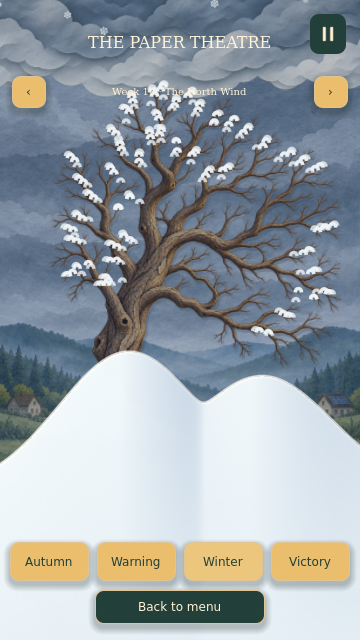
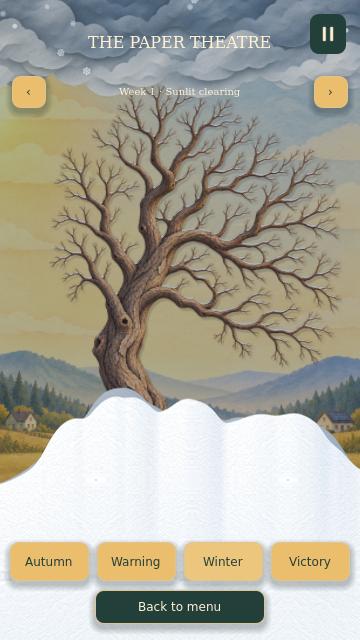
Build gradual paper snowbanks and coat the painted branches

diff --git a/docs/BETA_POLISH.md b/docs/BETA_POLISH.md
@@ -29,7 +29,7 @@ The [compact results](images/beta-results.png) and [Whirlwind workshop](images/b
 
 ## Validation status
 
-Twenty-nine headless regression scripts pass 1,021 checks across simulation, leaf identity, positional airflow, detachment, progression prerequisites, save migration/storage, scores, UI, rigid animation, winter, scene continuity and audio routing. All 26 Python launcher/mobile-export/composition checks also pass. Godot 4.6.3 produces the release Web export successfully. Browser output measurements verify actual music, silence while paused/muted and recovery after unmuting; the browser suite also exercises the end-to-end game and workshop flow. These checks do not substitute for native phone frame-rate, subjective listening/mix review or full-campaign balance playtests.
+Twenty-nine headless regression scripts pass 1,027 checks across simulation, leaf identity, positional airflow, detachment, progression prerequisites, save migration/storage, scores, UI, rigid animation, winter, scene continuity and audio routing. All 26 Python launcher/mobile-export/composition checks also pass. Godot 4.6.3 produces the release Web export successfully. Browser output measurements verify actual music, silence while paused/muted and recovery after unmuting; the browser suite also exercises the end-to-end game and workshop flow. These checks do not substitute for native phone frame-rate, subjective listening/mix review or full-campaign balance playtests.
 
 The final release was also launched in Chromium after switching browser streams to MP3 for codec compatibility: its packaged music produced a nonzero WebAudio output and `?test=1` exposed no debug snapshot. The complete debug browser flow passed with no runtime errors before that codec-only change; the streamed music adapter and controls are shared.
 
@@ -120,7 +120,7 @@ Run native regressions with `python3 tools/check_godot_tests.py`. It rejects eng
 
 ### November 2026: planted ground and spring transition
 
-The root bank is now completely vegetated paper artwork, with a feathered lower edge and lighting/colour treatments for autumn, rain, dusk, night and winter. Victory sends a short warm light pulse through the tree. Missing leaves grow from their stems in a staggered branch wave; the existing crown changes colour, the meadow greens over 5.5 seconds, and the current winter outfit dissolves into the summer celebration pose. The landscape crossfades into sunlight. These are presentation effects and do not change saved leaf identities, rewards or RNG. Settled snow has a smooth highlighted rim and shaded banks.
+The root bank is now completely vegetated paper artwork, with a feathered lower edge and lighting/colour treatments for autumn, rain, dusk, night and winter. Victory sends a short warm light pulse through the tree. Missing leaves grow from their stems in a staggered branch wave; the existing crown changes colour, the meadow greens over 5.5 seconds, and the current winter outfit dissolves into the summer celebration pose. The landscape crossfades into sunlight. These are presentation effects and do not change saved leaf identities, rewards or RNG. Settled snow uses filled paper banks with soft edges and broad shading.
 
 Validation: seven growth/render-buffer checks, the existing finale timing tests, and the browser finale flow. Ambient rustle now reaches independently timed leaves throughout the crown; the attachment regression allows its small cosmetic motion after a leaf has settled.
 
@@ -129,7 +129,7 @@ Validation: seven growth/render-buffer checks, the existing finale timing tests,
 
 The finale uses a sixteen-frame paper wind atlas with interpolated poses, rolling motion and a curved, side-to-side route that travels completely offscreen. Its physical stripping capsule and local swirling force follow the same route. Gusts impart a rolling impulse to real leaves; regular three-leaf falls continue between gusts, sharing the existing finite schedule. Fine chaff and orbiting debris add motion without creating scoring leaves. Rules 10 retains earlier saves and the single high-score table.
 
-Validation: 38 finale checks include finite unique schedules on all difficulties, playable minimum foliage, ordinary falling during recovery, curved exit/reentry and swept-path stripping. The browser finale study shows textured gusts on both approaches and verifies pause and ending flow. Small falling snow crystals now use smooth shaded silhouettes; the settled snowbank has an antialiased highlighted rim and soft folds. [Wind return review](images/north-wind-sweep.png).
+Validation: 38 finale checks include finite unique schedules on all difficulties, playable minimum foliage, ordinary falling during recovery, curved exit/reentry and swept-path stripping. The browser finale study shows textured gusts on both approaches and verifies pause and ending flow. Small falling snow crystals now use smooth shaded silhouettes; the settled snowbank has a feathered filled edge and soft folds. [Wind return review](images/north-wind-sweep.png).
 
 
 ### Original score and story revision
@@ -197,7 +197,7 @@ Week one starts with approximately 94% green and 6% yellow foliage. Victory keep
 
 Full-power lift, sideways steering and the upward speed cap taper smoothly along the aimed cone, from full strength near the nozzle to 28% at maximum reach. A reach upgrade extends useful strength at the same world distance. Per-leaf response variation remains. The recharge draft retains gravity support while its small upward surplus and gentle speed limit fade with distance. Whirlwind keeps its separate force and speed allowance. No presentation captions were added.
 
-Nine physics checks cover actual near/middle/far acceleration and sustained speeds, the range boundary, reach upgrades, an angled cone, low-power holding and a freely rising leaf. The latter slows from approximately 139 to 59 logical units per second between the lower and upper parts of the cone. All 28 native scripts / 997 checks pass, and debug/release Web exports build. The attachment rendering study uses a lower naturally empty branch so it can inspect settling without relying on the old uniform lift.
+Nine physics checks cover actual near/middle/far acceleration and sustained speeds, the range boundary, reach upgrades, an angled cone, low-power holding and a freely rising leaf. The latter slows from approximately 139 to 59 logical units per second between the lower and upper parts of the cone. All 28 native scripts / 997 checks pass, and debug/release Web exports build. The attachment rendering study uses a naturally empty branch validated against the current physics.
 
 ### Completion without waiting on the last leaves
 
@@ -208,3 +208,13 @@ Unfinished leaves finish falling decoratively during the closing scene without c
 Twenty-two new quota checks cover continuous shedding, immediate completion with pending leaves, immutable goals, identity conservation, one-time progress and rewards, recovery, simultaneous loss, neutral checkpoints, reload, next-week reset and supply exhaustion. Two render checks cover closing-scene pause and completed-pile caching. All 29 native scripts / 1,021 checks and 26 Python tests pass; debug and release Web exports build. The real-input attachment study verifies a quota-completing rescue while other leaves remain airborne, fluid settling and a successful boundary save. Review fixtures validate candidate captures against the unmodified physics before exporting their saved study.
 
 The browser finale check also passes the full victory hold/card/Continue sequence and both North Wind directions with the new quota rules.
+
+### Natural snow accumulation and branch coating
+
+The contour stroke and repeated white branch arcs are removed. Snow builds as filled, feathered paper over 4.5 seconds, with local slope shading and a restrained ground depth of six logical pixels. Bank fitting no longer inflates its crests to cover distant outliers; a rounded coating follows the real pile supports. Front and rear banks sample their own leaf-pile lanes and render on the matching side of the caretaker.
+
+A plain 96-pixel region of the existing cloud artwork supplies fibrous grain, with mirrored sampling that avoids importing cloud silhouettes into the snow. Branch snow samples the original tree alpha to find upward-facing shelves, grows gradually, suppresses upright twig tips and shares the paper grain. The tree artwork is unchanged. Accumulation geometry and draw commands remain cached after the snow finishes.
+
+Six additional checks cover restrained height above real supports, a transparent feather without strokes, continuous accumulation, the longer buildup and separate depth lanes. Existing coverage, rounded contours, deterministic supports and local shading checks remain.
+
+Validation passes 29 native scripts / 1,027 checks, including the affected render-cache and pause checks after the lane split. The real-input loss study verifies gradual coating, completed banks, the current outfit, unchanged score and manual Continue without browser errors. Release checks cover all thirteen atmospheres and both endings; the final grain shader also passes a separate release winter render with debug hooks absent. Review: [first coating on the leaf piles](images/snow-first-coating.png) and [paper snowbanks and branch coating](images/snow-banks.png).

diff --git a/docs/MOTION_AND_SEASONS.md b/docs/MOTION_AND_SEASONS.md
@@ -40,9 +40,9 @@ The touch action shows only its icon and a recharge ring. E still activates it. 
 
 At defeat, a separate presentation simulation takes the actual attached, airborne and grounded identities, preserving their poses and colours. Attached leaves release in a staggered wave, drift under a stronger cinematic gravity and settle on the ground. No leaves are removed by a visibility cutoff. Every identity remains in one of those three states throughout the sequence.
 
-Ground snow starts accumulating **only after all leaves have landed**. It then covers the pile over 2.2 seconds before results appear. Clouds and small warning flakes can arrive earlier. The ending takes longer than the old four-second reveal; pause/focus loss freezes it. Results, score, gameplay RNG and campaign checkpoints stay frozen at the moment of defeat, so cinematic landings do not add misses or change retry state.
+Ground snow starts accumulating **only after all leaves have landed**. It then builds over 4.5 seconds; a short hold follows, then Continue lets the player open Results when ready. Clouds and small warning flakes can arrive earlier. The ending takes longer than the old four-second reveal; pause/focus loss freezes it. Results, score, gameplay RNG and campaign checkpoints stay frozen at the moment of defeat, so cinematic landings do not add misses or change retry state.
 
-Ending foliage uses instanced paper-leaf batches; transforms upload once per rendered frame rather than every fixed physics step. Settled leaves keep their cached transforms. Snow caps are placed on branch anchors, independent of foliage density. The season preview can jump to the fully snow-covered state for art review.
+Ending foliage uses instanced paper-leaf batches; transforms upload once per rendered frame rather than every fixed physics step. Settled leaves keep their cached transforms. Snow samples the front and rear leaf supports separately, preserving their depth around the caretaker. Soft filled banks use paper grain from a plain region of the cloud artwork. A shallow ground coat and bounded bank fitting keep the snow close to the actual piles. Branch snow follows upward-facing shelves in the tree painting’s alpha mask, with textured, antialiased edges; no anchor arcs or contour strokes are drawn. The season preview can jump to the fully snow-covered state for art review.
 
 ## Scoring and migration
 
